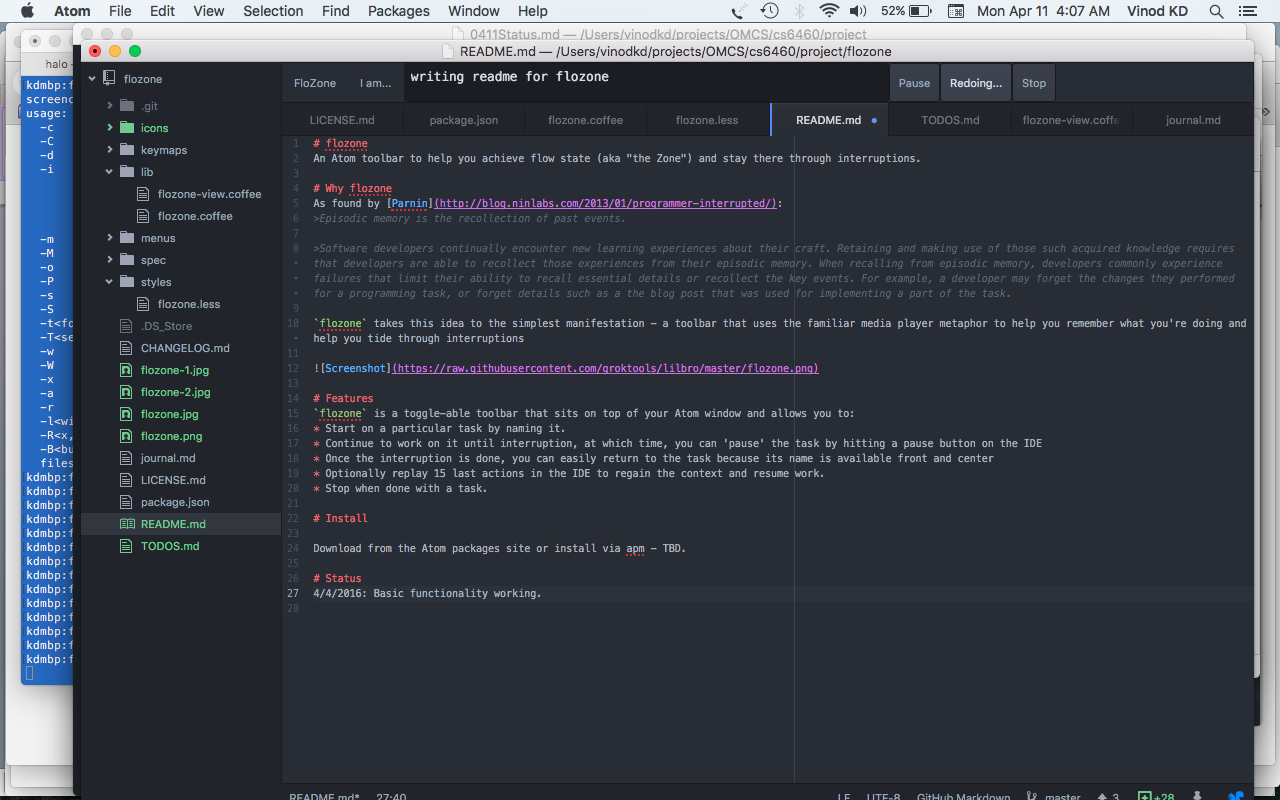
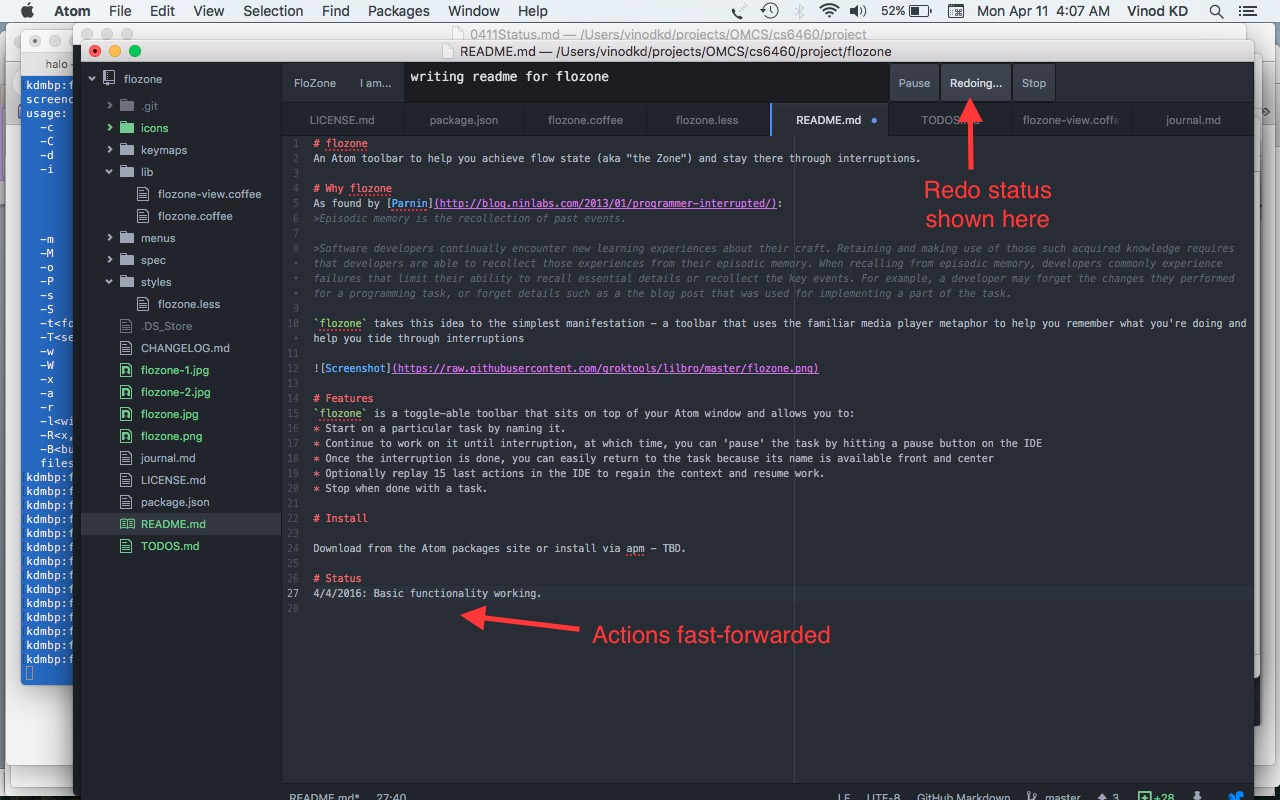
Fix copy paste errors in readme, add annotation to screenshot
Addresses
---------
fat finger mistakes

Why
---

diff --git a/README.md b/README.md
@@ -11,15 +11,16 @@ As found by [Parnin](http://blog.ninlabs.com/2013/01/programmer-interrupted/):
 
 # Features
 `flozone` is a toggle-able toolbar that sits on top of your Atom window and allows you to start on a particular task by naming it. You continue to work on your task until you're done, registering it by hitting the stop button or typing a new task.
-![Screenshot](https://raw.githubusercontent.com/groktools/lilbro/master/flozone.png)
+
+![Screenshot](https://raw.githubusercontent.com/groktools/flozone/master/flozone.png)
 
 If/When you're interrupted in the middle of your task, you 'pause' the task by hitting the Pause button on the flow bar, and once the pesky interruption is done, you're reminded of your task because its name is front and center, and you can get back to the zone by pressing the Rewind button. This rewinds the last of your 15 actions in the IDE with enough delay for you to follow along, like so:
 
-![Screenshot](https://raw.githubusercontent.com/groktools/lilbro/master/flozone-1.png)
+![Screenshot](https://raw.githubusercontent.com/groktools/flozone/master/flozone-1.png)
 
 ... and then fast-forwards to your latest change by redoing all of the changes it just undid, like so:
 
-![Screenshot](https://raw.githubusercontent.com/groktools/lilbro/master/flozone-2.png)
+![Screenshot](https://raw.githubusercontent.com/groktools/flozone/master/flozone-2.png)
 
 Yes, you could do this manually, but this plugin makes the computer work for you!
 
